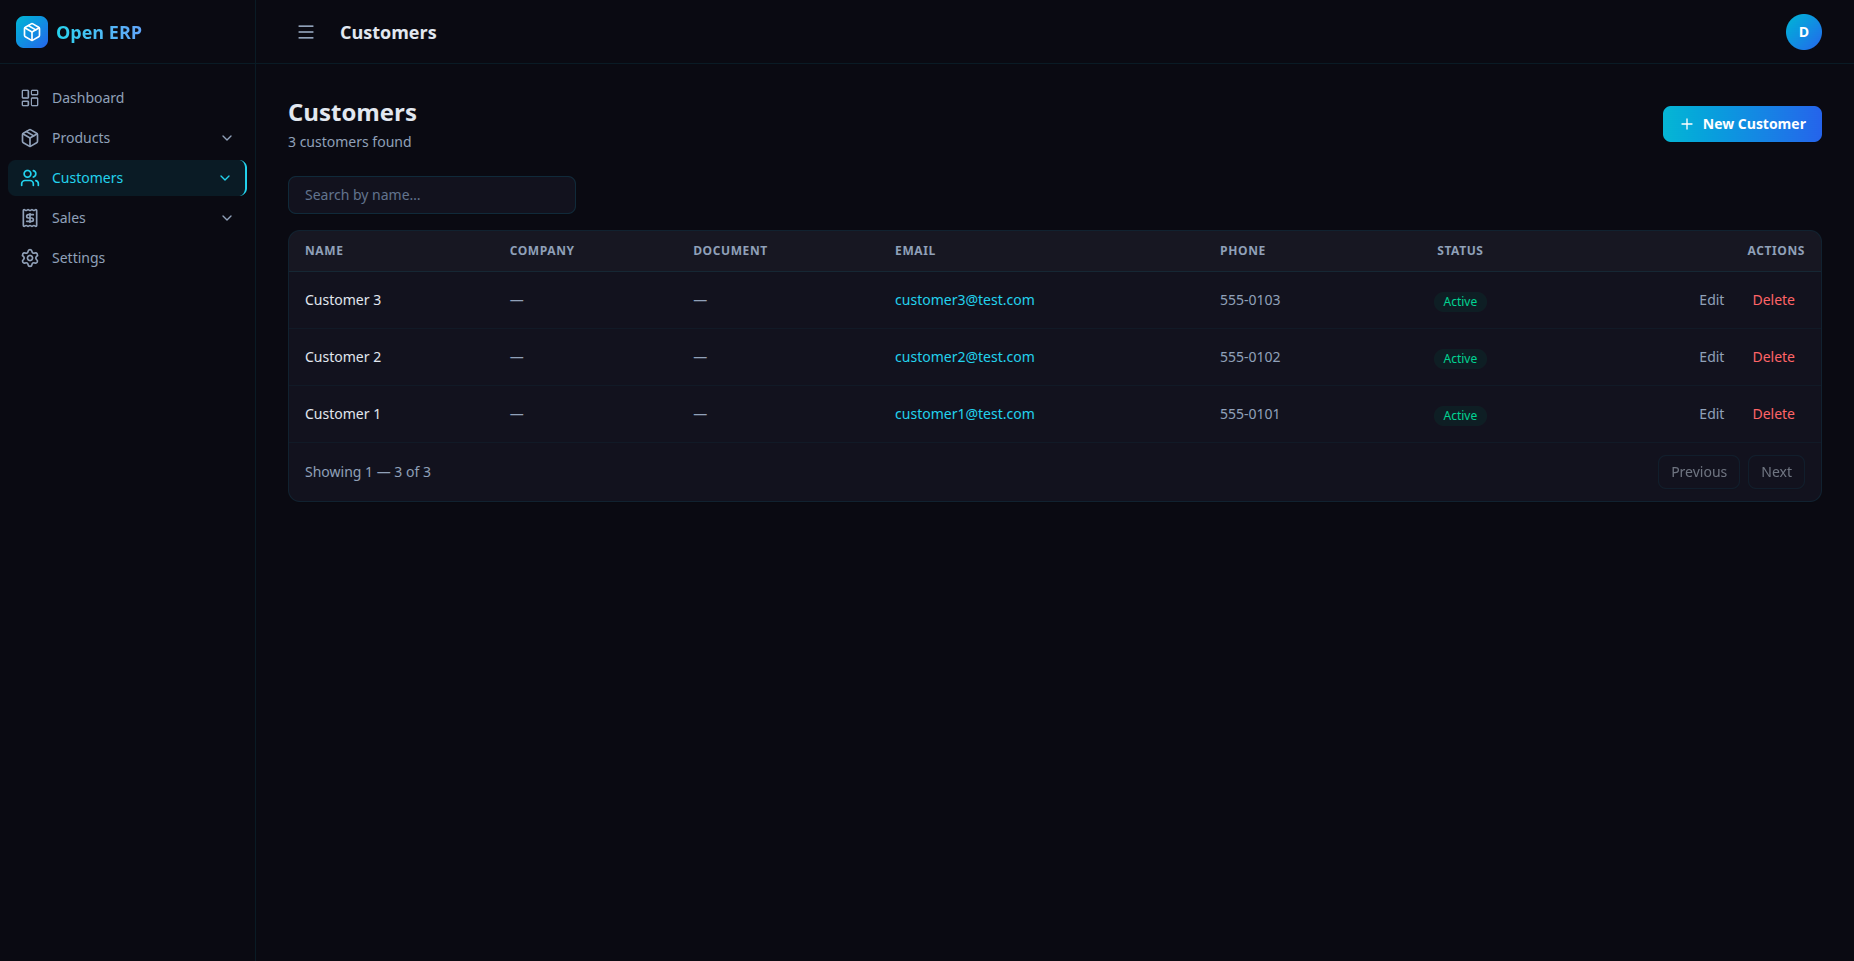
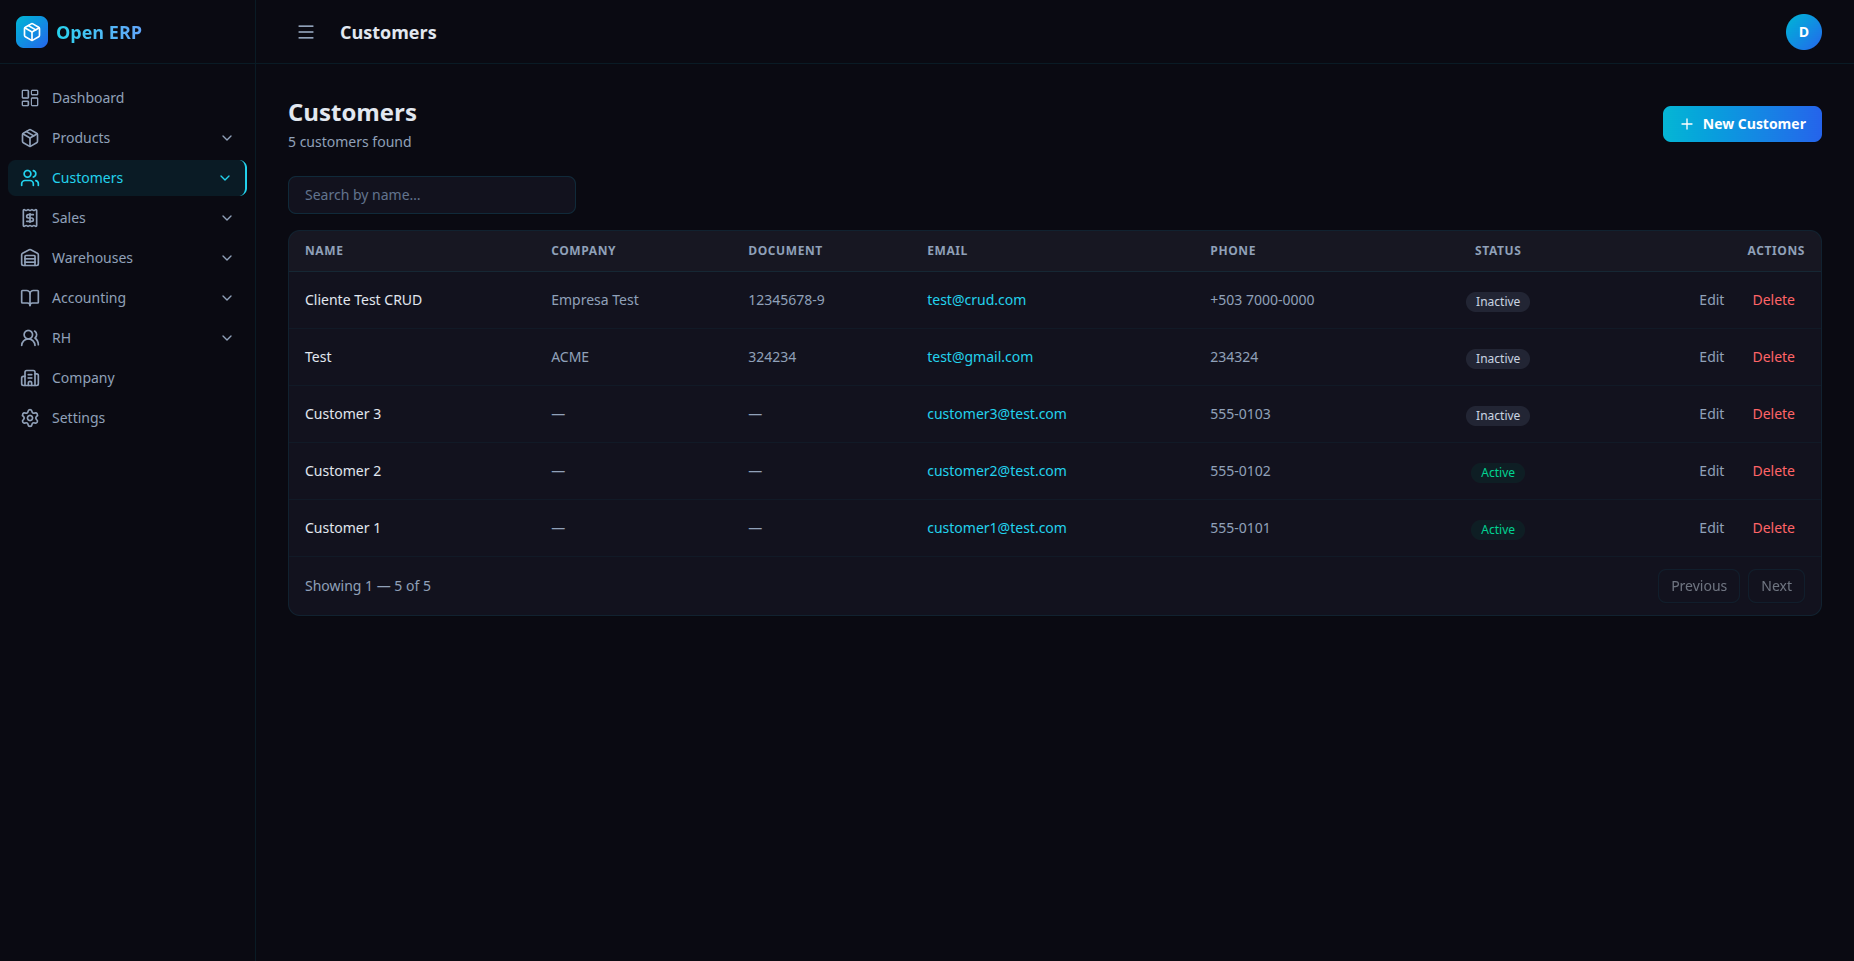
docs: update README with new modules and fresh screenshots
- Add RH (HR), POS, Warehouse, Chart of Accounts, Company/DTE modules
- Add comprehensive project structure for backend and frontend
- Add demo credentials section
- Refresh all screenshots showing working system
- Add new screenshots: RH dashboard, employees, payroll, POS,
  warehouses, accounts, company settings
- Remove leftover test artifacts and broken screenshots
- Update features, tech stack, and Docker services sections

diff --git a/README.md b/README.md
@@ -5,7 +5,7 @@
   <br />
   Built with NestJS • Next.js • React • Tailwind CSS • PostgreSQL
   <br />
-  Neon dark theme • Glassmorphism • OAuth ready
+  Neon dark theme • Glassmorphism • OAuth ready • El Salvador DTE
 </p>
 
 <p align="center">
@@ -22,11 +22,35 @@
 
 ## ✨ Features
 
-- **Dashboard** — Real-time stats, recent sales, and performance metrics
-- **Products** — Full CRUD with stock tracking and status management
-- **Customers** — Customer registry with purchase history
-- **Sales** — Invoice creation, payment tracking, status management
-- **Authentication** — JWT-based auth with email/password + OAuth (Google, Microsoft 365)
+### 🏢 Core Business
+- **Products** — Full CRUD with stock tracking, barcode, images, and status management
+- **Customers** — Customer registry with purchase history and contact details
+- **Sales** — Invoice creation, payment tracking, status management (pending, completed, cancelled)
+- **Point of Sale (POS)** — Quick-sale interface with product search, cart, and receipt generation
+- **Chart of Accounts** — Hierarchical accounting plan (assets, liabilities, equity, income, expenses)
+
+### 👥 Human Resources (RH)
+- **Employees** — Employee registry with departments, positions, contracts, and documents
+- **Payroll** — Payroll period management with automatic calculation and payment tracking
+- **Attendance** — Daily attendance recording and reporting
+- **Loans** — Employee loan management with installment-based repayment tracking
+- **Bonuses** — Bonus and incentive management per payroll period
+- **Positions & Departments** — Organizational structure management
+- **Contracts** — Employee contract types and terms
+
+### 📦 Inventory & Logistics
+- **Warehouses** — Multi-warehouse inventory management with locations
+- **Kardex** — Real-time inventory movement tracking (FIFO, average cost)
+
+### 🏛 Company & Compliance
+- **Company Settings** — Company profile, tax IDs, registration data
+- **El Salvador DTE** — Electronic tax document generation (Factura, Crédito Fiscal, etc.)
+- **Landing Pages** — Public-facing pages (Home, Blog, About, Contact)
+
+### 🔐 System
+- **Authentication** — JWT-based auth with email/password, Google OAuth 2.0, Microsoft 365 OAuth
+- **Role-Based Access** — Admin, manager, accountant, and view-only roles (RBAC)
+- **Dashboard** — Real-time stats, recent activity, and performance metrics
 - **Responsive** — Fully responsive with collapsible sidebar and mobile support
 - **Dark Theme** — Neon cyan/blue design system with glassmorphism effects
 
@@ -35,7 +59,7 @@
 | Layer | Technology |
 |-------|-----------|
 | **Frontend** | Next.js 16, React 19, TypeScript, Tailwind CSS v4 |
-| **Backend** | NestJS 11, TypeORM, Passport.js |
+| **Backend** | NestJS 11, TypeORM, Passport.js, class-validator |
 | **Database** | PostgreSQL 16 |
 | **Auth** | JWT, Google OAuth 2.0, Microsoft OAuth 2.0 |
 | **DevOps** | Docker, Docker Compose |
@@ -58,6 +82,13 @@ docker compose up --build -d
 The app will be available at:
 - **Frontend:** http://localhost:3000
 - **API:** http://localhost:3001/api
+
+### Demo Credentials
+
+```
+Email:    demo@openerp.com
+Password: Demo123!
+```
 
 ## 🔧 Manual Setup
 
@@ -100,28 +131,57 @@ GOOGLE_CLIENT_SECRET=your-client-secret
 GOOGLE_CALLBACK_URL=http://localhost:3001/api/auth/google/callback
 ```
 
-### Microsoft 365 OAuth *(Coming Soon)*
-Microsoft 365 login is coming soon. Stay tuned.
+### Microsoft 365 OAuth
+
+```env
+MICROSOFT_CLIENT_ID=your-client-id
+MICROSOFT_CLIENT_SECRET=your-client-secret
+MICROSOFT_CALLBACK_URL=http://localhost:3001/api/auth/microsoft/callback
+```
 
 ## 📁 Project Structure
 
 ```
-├── backend/                 # NestJS API
+├── backend/                    # NestJS API
 │   ├── src/
-│   │   ├── auth/           # Auth module (JWT + OAuth strategies)
-│   │   ├── users/          # Users module
-│   │   ├── products/       # Products CRUD
-│   │   ├── customers/      # Customers CRUD
-│   │   ├── sales/          # Sales module
-│   │   └── dashboard/      # Dashboard stats
+│   │   ├── accounts/          # Chart of Accounts module
+│   │   ├── auth/              # Auth module (JWT + OAuth strategies)
+│   │   ├── common/            # Shared utilities, guards, interceptors
+│   │   ├── company/           # Company settings & DTE module
+│   │   ├── customers/         # Customers CRUD
+│   │   ├── dashboard/         # Dashboard stats
+│   │   ├── kardex/            # Inventory movement tracking
+│   │   ├── products/          # Products CRUD
+│   │   ├── rh/                # Human Resources (employees, payroll, attendance, loans, bonuses)
+│   │   ├── sales/             # Sales & invoices
+│   │   ├── users/             # Users & roles
+│   │   └── warehouse/         # Warehouse inventory
 │   └── package.json
-├── frontend/                # Next.js App
+├── frontend/                   # Next.js App
 │   ├── src/
-│   │   ├── app/            # Pages (landing, auth, dashboard)
-│   │   ├── components/     # Reusable components
-│   │   ├── contexts/       # Auth context
-│   │   └── lib/            # API client
+│   │   ├── app/
+│   │   │   ├── (auth)/        # Login & Register pages
+│   │   │   ├── about/         # About page
+│   │   │   ├── blog/          # Blog with tag system
+│   │   │   ├── customers/     # Public customers (landing)
+│   │   │   ├── dashboard/     # Protected dashboard
+│   │   │   │   ├── accounts/  # Chart of accounts UI
+│   │   │   │   ├── company/   # Company settings UI
+│   │   │   │   ├── customers/ # Customer management
+│   │   │   │   ├── pos/       # Point of Sale UI
+│   │   │   │   ├── products/  # Product management
+│   │   │   │   ├── rh/        # HR management (11 pages)
+│   │   │   │   ├── sales/     # Sales management
+│   │   │   │   ├── settings/  # User settings
+│   │   │   │   └── warehouses/# Warehouse UI
+│   │   │   ├── products/      # Public products (landing)
+│   │   │   ├── sales/         # Public sales (landing)
+│   │   │   └── setup/         # Initial setup wizard
+│   │   ├── components/        # Reusable UI components
+│   │   ├── contexts/          # Auth context provider
+│   │   └── lib/               # API client & utilities
 │   └── package.json
+├── screenshots/                # App screenshots & GIFs
 ├── docker-compose.yml
 └── README.md
 ```
@@ -131,6 +191,7 @@ Microsoft 365 login is coming soon. Stay tuned.
 | Service | Port | Description |
 |---------|------|-------------|
 | `openerp_db` | 5432 | PostgreSQL database |
+| `openerp_redis` | 6379 | Redis cache |
 | `openerp_api` | 3001 | NestJS REST API |
 | `openerp_frontend` | 3000 | Next.js frontend |
 
@@ -167,19 +228,63 @@ Microsoft 365 login is coming soon. Stay tuned.
 ![Blog Listing](screenshots/blog-page.png)
 *Blog with glassmorphism cards and tag system*
 
-### Dashboard
+### About
+
+![About Page](screenshots/about-page.png)
+*About page with team information*
+
+### Dashboard Overview
 
 ![Dashboard Overview](screenshots/dashboard-overview.png)
 *Main dashboard with key metrics and recent activity*
 
+### Human Resources (RH)
+
+![RH Dashboard](screenshots/dashboard-rh.png)
+*RH dashboard with employee stats and payroll overview*
+
+![Employees](screenshots/dashboard-rh-employees.png)
+*Employee management with departments, positions, and contracts*
+
+![Payroll](screenshots/dashboard-rh-payroll.png)
+*Payroll period management with automatic calculations*
+
+### Point of Sale (POS)
+
+![Point of Sale](screenshots/dashboard-pos.png)
+*Quick-sale interface with product search and cart*
+
+### Warehouse & Inventory
+
+![Warehouse Management](screenshots/dashboard-warehouses.png)
+*Multi-warehouse inventory management*
+
+### Products
+
 ![Products Management](screenshots/dashboard-products.png)
 *Product listing with CRUD operations and stock tracking*
+
+### Customers
 
 ![Customer Registry](screenshots/dashboard-customers.png)
 *Customer management with purchase history*
 
+### Sales & Invoices
+
 ![Sales & Invoices](screenshots/dashboard-sales.png)
 *Sales management with invoice creation and payment tracking*
+
+### Chart of Accounts
+
+![Chart of Accounts](screenshots/dashboard-accounts.png)
+*Hierarchical accounting plan with account categories*
+
+### Company Settings
+
+![Company Settings](screenshots/dashboard-company.png)
+*Company registration, tax IDs, and DTE configuration*
+
+### Settings & Profile
 
 ![Settings & Profile](screenshots/dashboard-settings.png)
 *User settings and profile management*
